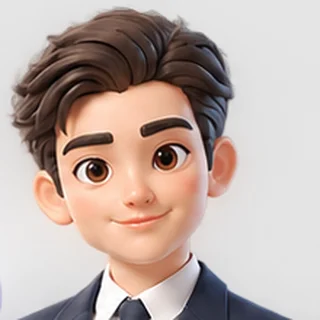
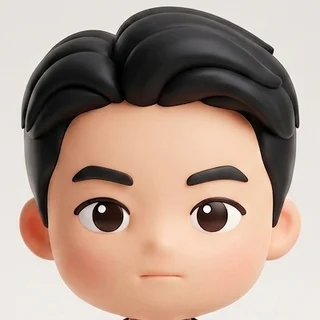
도란이 캐릭터를 새 전신 피규어 디자인으로 교체
- 작게(원형)·내 정보 선택: 얼굴 이미지 doran-girl/boy.webp
- 크게: 상반신 이미지 doran-girl-body/boy-body.webp, 둥근 사각 카드로 표시

Claude-Session: https://claude.ai/code/session_016SxUknCx26ztWZhXrEzpg4

diff --git a/booktalk/ui/App.dc.html b/booktalk/ui/App.dc.html
@@ -24,6 +24,8 @@ button{font-family:inherit;cursor:pointer}
 .doran img{width:100%;height:100%;object-fit:cover;border-radius:50%;display:block}
 .doran.talking{animation:doranRing 1s ease-out infinite}
 .doran.talking img{animation:doranBob .7s ease-in-out infinite}
+.doran.body img{border-radius:20px}
+@keyframes doranRingSq{0%{box-shadow:0 0 0 0 rgba(14,107,44,.4)}100%{box-shadow:0 0 0 12px rgba(14,107,44,0)}}
 </style>
 </helmet>
 <div style="width: 390px; height: 844px; background: #FFFFFF; color: #16201A; font-family: 'Noto Sans KR', 'Plus Jakarta Sans', sans-serif; display: flex; flex-direction: column; overflow: hidden; position: relative">
@@ -331,8 +333,8 @@ button{font-family:inherit;cursor:pointer}
 </sc-if>
 </div>
 <sc-if value="{{ avatarBig }}" hint-placeholder-val="{{ false }}">
-<button aria-label="도란이 작게 보기" onClick="{{ avatarToSmall }}" style="flex: none; border: 0; border-bottom: 1px solid #E3E8E4; background: #F4F8F4; padding: 12px 0 8px; display: flex; flex-direction: column; align-items: center; gap: 4px">
-<span class="{{ doranClass }}" style="width: 128px; height: 128px; display: block; border-radius: 50%; border: 3px solid #0E6B2C; background: #FFFFFF"><img src="{{ avatarSrc }}" alt=""></span>
+<button aria-label="도란이 작게 보기" onClick="{{ avatarToSmall }}" style="flex: none; border: 0; border-bottom: 1px solid #E3E8E4; background: #F4F8F4; padding: 14px 0 8px; display: flex; flex-direction: column; align-items: center; gap: 4px">
+<span class="{{ doranBodyClass }}" style="width: 112px; height: 157px; display: block; border-radius: 22px; border: 3px solid #0E6B2C; background: #FFFFFF"><img src="{{ avatarBodySrc }}" alt=""></span>
 <span style="font-size: 12px; font-weight: 700; color: #0B5E25">{{ tutorName }} · {{ doranState }}</span>
 </button>
 </sc-if>
@@ -1177,6 +1179,8 @@ class Component extends DCLogic {
       fbOpen: !!fm, fb: fb, closeFb: set({ fb: -1 }),
       avatarSrc: (host.assetBase || '') + 'booktalk/assets/doran-' + (s.look === 'boy' ? 'boy' : 'girl') + '.webp',
       looks: [['girl', '여자'], ['boy', '남자']].map(function (k) { var on = s.look === k[0]; return { name: k[1], on: on ? 'true' : 'false', src: (host.assetBase || '') + 'booktalk/assets/doran-' + k[0] + '.webp', pick: function () { self.setLook(k[0]); }, style: 'display:flex;flex-direction:column;align-items:center;gap:6px;padding:12px;border-radius:16px;' + (on ? 'border:2px solid ' + G + ';background:#E7F3EA;color:#0B5E25' : 'border:1px solid #E3E8E4;background:#FFF;color:#16201A') }; }),
+      avatarBodySrc: (host.assetBase || '') + 'booktalk/assets/doran-' + (s.look === 'boy' ? 'boy' : 'girl') + '-body.webp',
+      doranBodyClass: 'doran body',
       avatarBig: s.avatar === 'big', avatarSmall: s.avatar === 'small', doranClass: 'doran',
       doranState: s.listening ? '듣고 있어요' : (s.thinking ? '생각 중…' : '이야기 중'),
       avatarBtn: { big: '크게', small: '작게', hide: '숨김' }[s.avatar] || '작게',

diff --git a/index.html b/index.html
@@ -21,6 +21,8 @@ button{font-family:inherit;cursor:pointer}
 .doran img{width:100%;height:100%;object-fit:cover;border-radius:50%;display:block}
 .doran.talking{animation:doranRing 1s ease-out infinite}
 .doran.talking img{animation:doranBob .7s ease-in-out infinite}
+.doran.body img{border-radius:20px}
+@keyframes doranRingSq{0%{box-shadow:0 0 0 0 rgba(14,107,44,.4)}100%{box-shadow:0 0 0 12px rgba(14,107,44,0)}}
 </style>
 <style>
 html,body{height:100%}
@@ -350,8 +352,8 @@ body{display:block;background:#FFFFFF !important}
 </sc-if>
 </div>
 <sc-if value="{{ avatarBig }}" hint-placeholder-val="{{ false }}">
-<button aria-label="도란이 작게 보기" onClick="{{ avatarToSmall }}" style="flex: none; border: 0; border-bottom: 1px solid #E3E8E4; background: #F4F8F4; padding: 12px 0 8px; display: flex; flex-direction: column; align-items: center; gap: 4px">
-<span class="{{ doranClass }}" style="width: 128px; height: 128px; display: block; border-radius: 50%; border: 3px solid #0E6B2C; background: #FFFFFF"><img src="{{ avatarSrc }}" alt=""></span>
+<button aria-label="도란이 작게 보기" onClick="{{ avatarToSmall }}" style="flex: none; border: 0; border-bottom: 1px solid #E3E8E4; background: #F4F8F4; padding: 14px 0 8px; display: flex; flex-direction: column; align-items: center; gap: 4px">
+<span class="{{ doranBodyClass }}" style="width: 112px; height: 157px; display: block; border-radius: 22px; border: 3px solid #0E6B2C; background: #FFFFFF"><img src="{{ avatarBodySrc }}" alt=""></span>
 <span style="font-size: 12px; font-weight: 700; color: #0B5E25">{{ tutorName }} · {{ doranState }}</span>
 </button>
 </sc-if>
@@ -1270,6 +1272,8 @@ class Component extends DCLogic {
       fbOpen: !!fm, fb: fb, closeFb: set({ fb: -1 }),
       avatarSrc: (host.assetBase || '') + 'booktalk/assets/doran-' + (s.look === 'boy' ? 'boy' : 'girl') + '.webp',
       looks: [['girl', '여자'], ['boy', '남자']].map(function (k) { var on = s.look === k[0]; return { name: k[1], on: on ? 'true' : 'false', src: (host.assetBase || '') + 'booktalk/assets/doran-' + k[0] + '.webp', pick: function () { self.setLook(k[0]); }, style: 'display:flex;flex-direction:column;align-items:center;gap:6px;padding:12px;border-radius:16px;' + (on ? 'border:2px solid ' + G + ';background:#E7F3EA;color:#0B5E25' : 'border:1px solid #E3E8E4;background:#FFF;color:#16201A') }; }),
+      avatarBodySrc: (host.assetBase || '') + 'booktalk/assets/doran-' + (s.look === 'boy' ? 'boy' : 'girl') + '-body.webp',
+      doranBodyClass: 'doran body',
       avatarBig: s.avatar === 'big', avatarSmall: s.avatar === 'small', doranClass: 'doran',
       doranState: s.listening ? '듣고 있어요' : (s.thinking ? '생각 중…' : '이야기 중'),
       avatarBtn: { big: '크게', small: '작게', hide: '숨김' }[s.avatar] || '작게',
